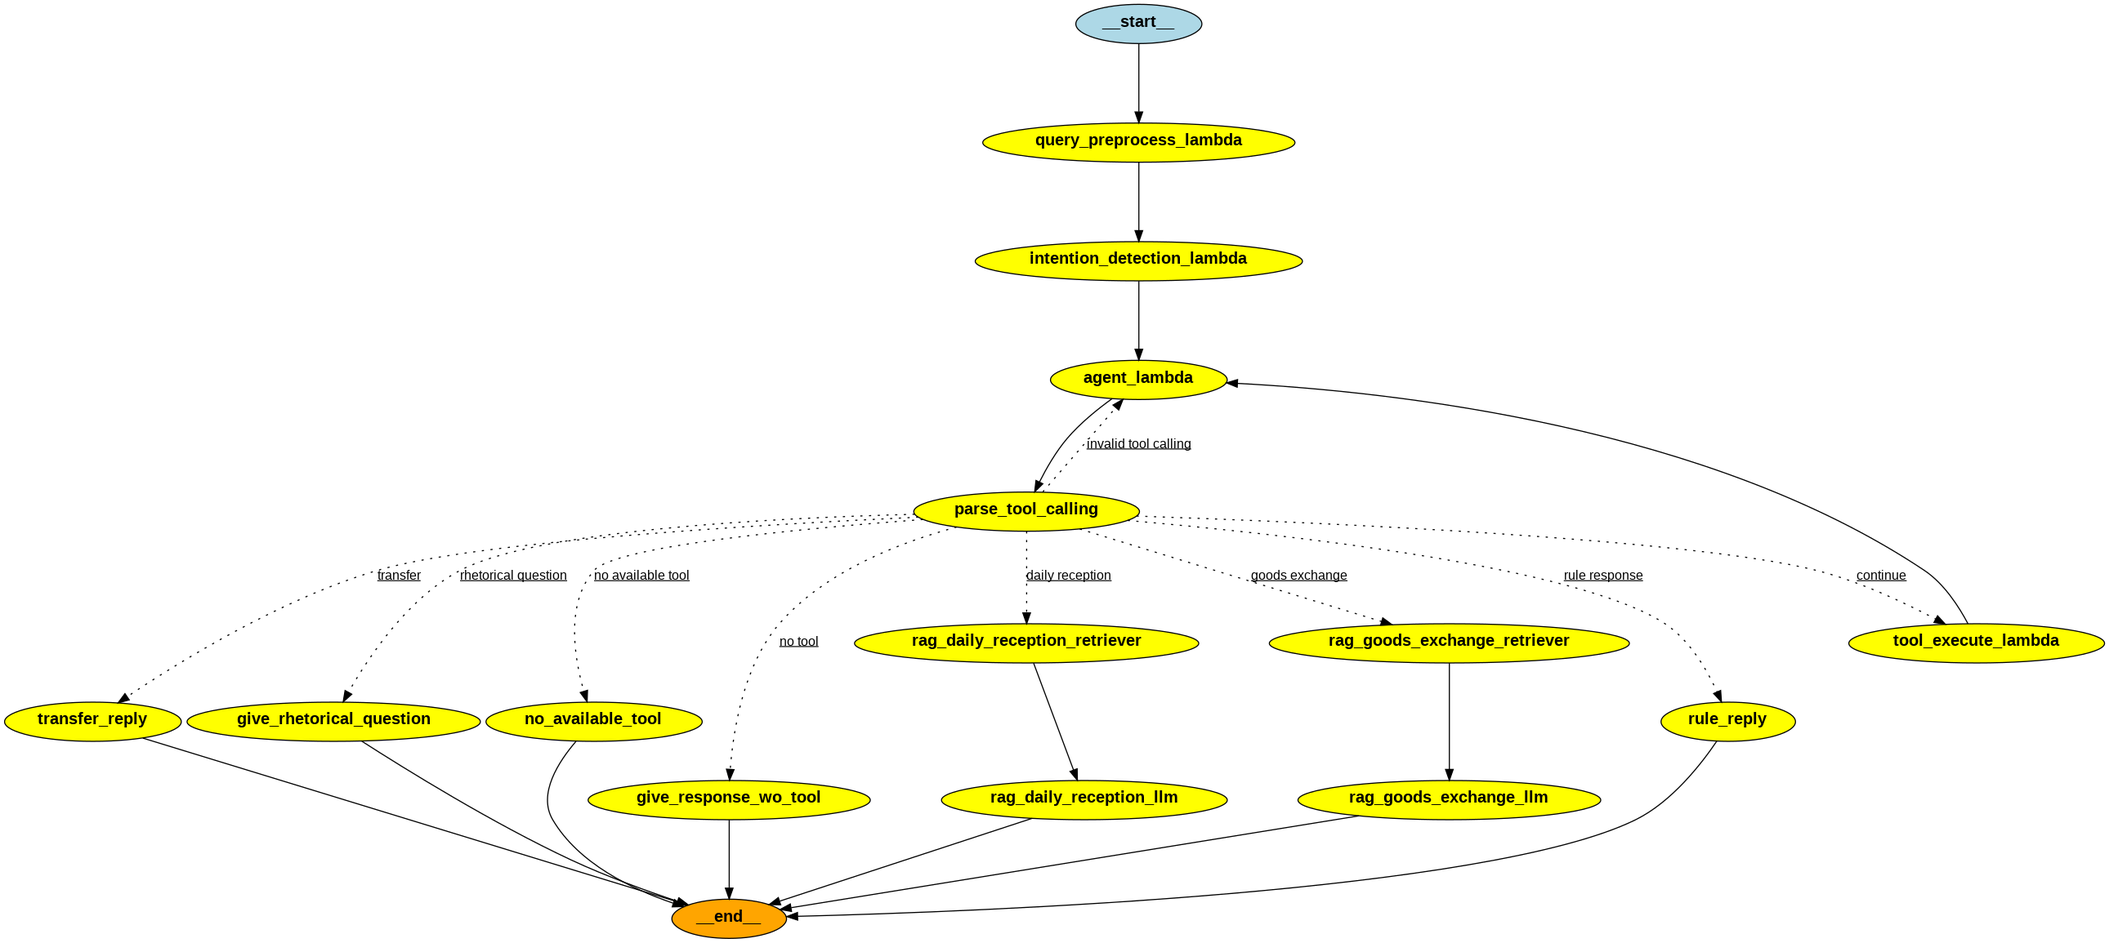
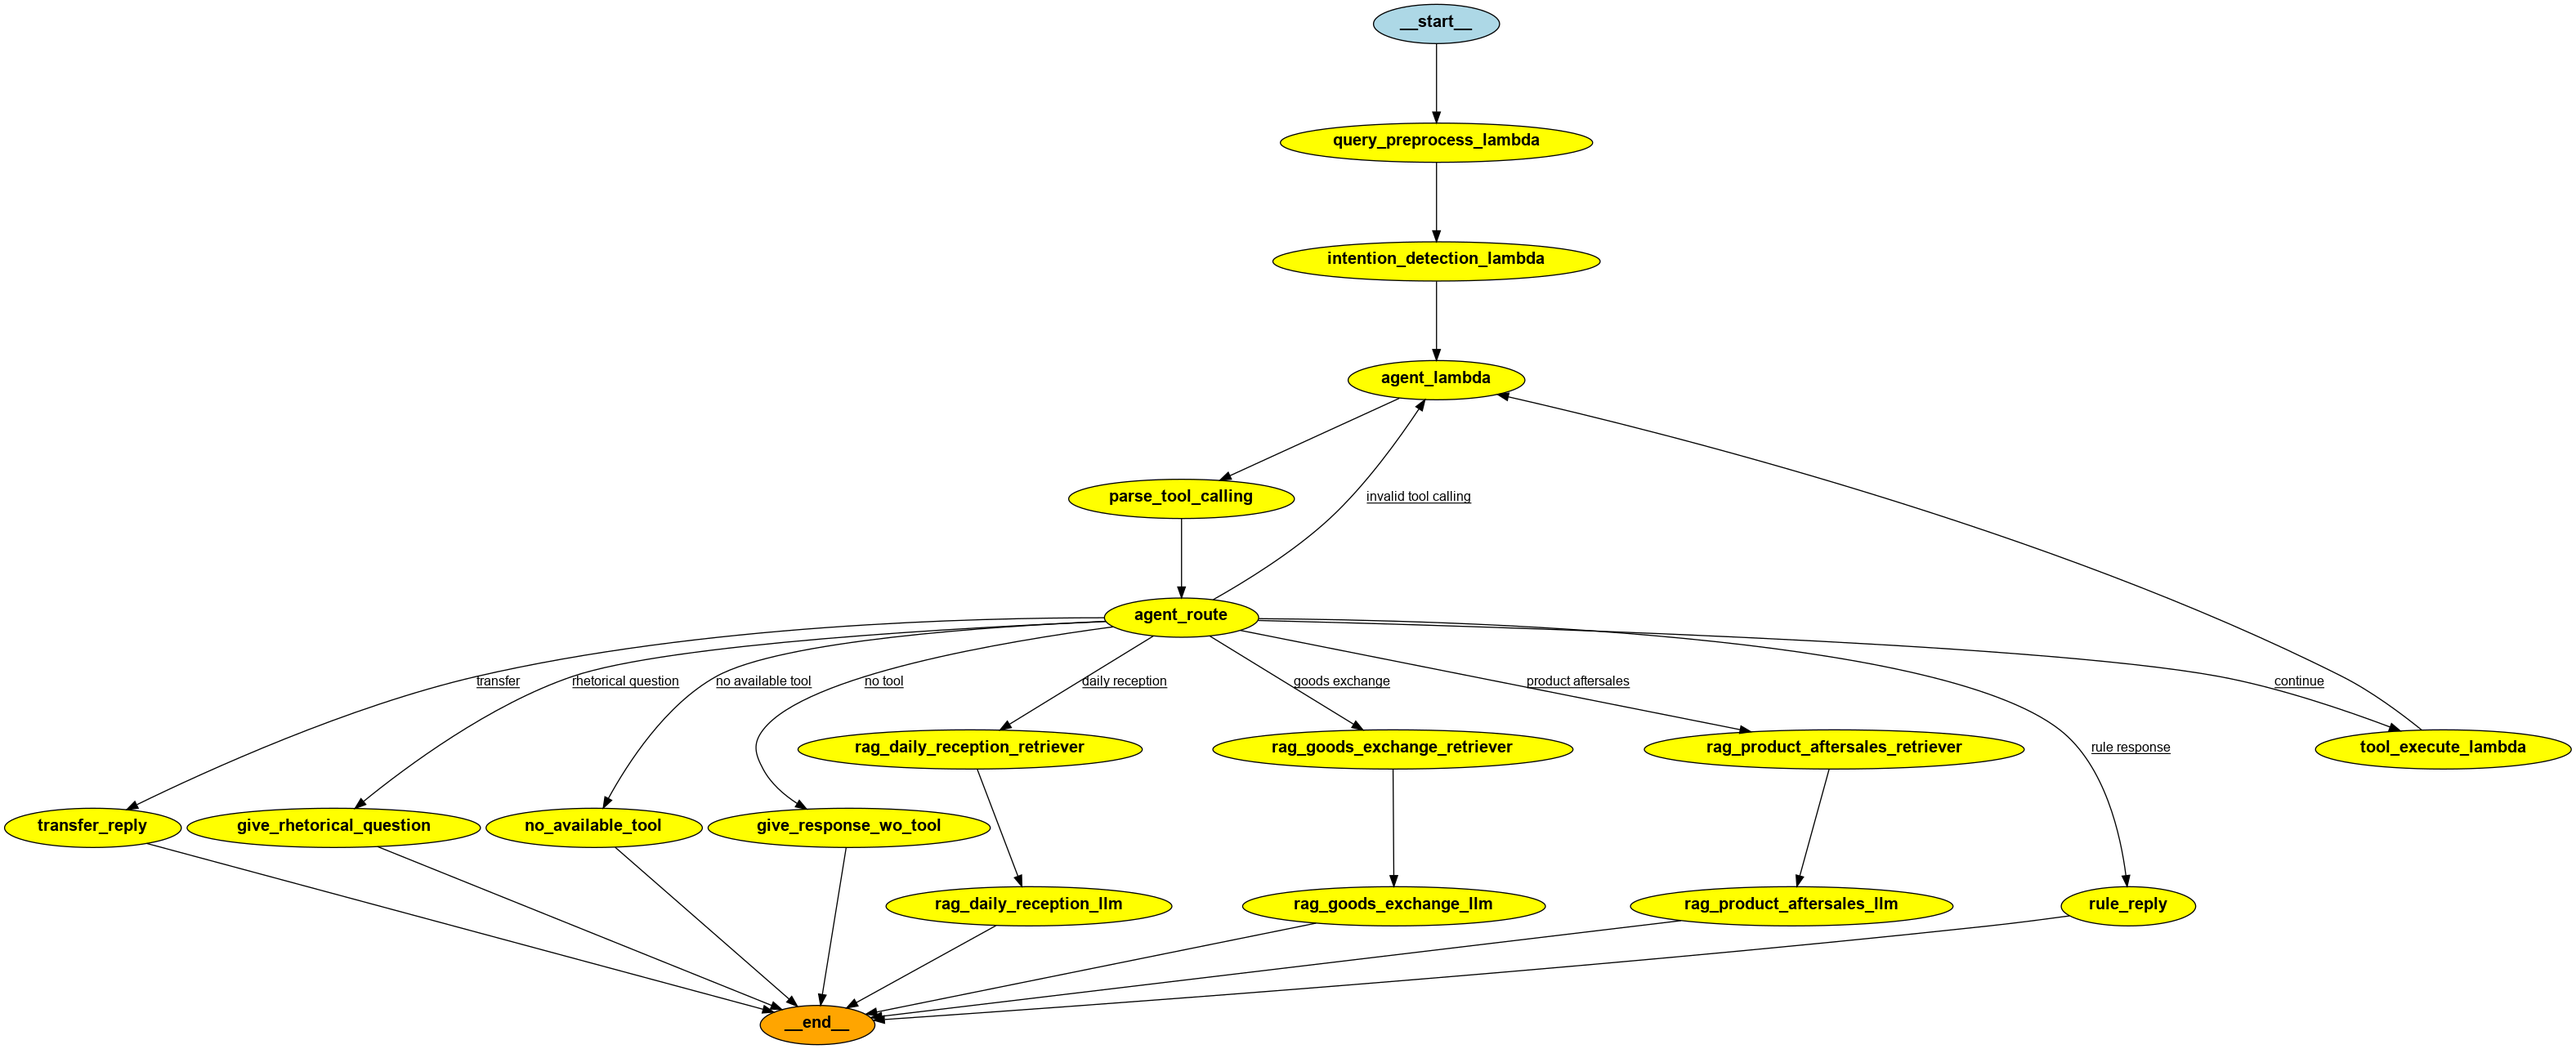
add product aftersales graph

diff --git a/source/lambda/online/lambda_main/main_utils/online_entries/retail_entry.py b/source/lambda/online/lambda_main/main_utils/online_entries/retail_entry.py
@@ -250,6 +250,34 @@ def rag_goods_exchange_llm_lambda(state:ChatbotState):
         )
     return {"answer": output}
 
+@node_monitor_wrapper
+def rag_product_aftersales_retriever_lambda(state: ChatbotState):
+    # call retrivever
+    retriever_params = state["chatbot_config"]["rag_product_aftersales_config"]
+    retriever_params["query"] = state["query"]
+    output:str = invoke_lambda(
+        event_body=retriever_params,
+        lambda_name="Online_Function_Retriever",
+        lambda_module_path="functions.lambda_retriever.retriever",
+        handler_name="lambda_handler"
+    )
+    contexts = [doc['page_content'] for doc in output['result']['docs']]
+    return {"contexts": contexts}
+
+
+@node_monitor_wrapper
+def rag_product_aftersales_llm_lambda(state:ChatbotState):
+    output:str = invoke_lambda(
+        lambda_name='Online_LLM_Generate',
+        lambda_module_path="lambda_llm_generate.llm_generate",
+        handler_name='lambda_handler',
+        event_body={
+            "llm_config": {**state['chatbot_config']['rag_product_aftersales_config']['llm_config'], "intent_type": LLMTaskType.RAG},
+            "llm_input": {"contexts": [state['contexts']], "query": state['query'], "chat_history": state['chat_history']}
+            }
+        )
+    return {"answer": output}
+
 # @node_monitor_wrapper
 # def rag_llm_lambda(state:ChatbotState):
 #     output:str = invoke_lambda(
@@ -365,6 +393,12 @@ def agent_route(state:dict):
     if recent_tool_call['name'] == 'no_available_tool':
         return "no available tool"
 
+    if recent_tool_call['name'] == 'product_logistics':
+        return "product aftersales"
+
+    if recent_tool_call['name'] == 'product_quality':
+        return "product aftersales"
+
     return "continue"
      
 #############################
@@ -388,6 +422,8 @@ def build_graph():
     workflow.add_node("rag_daily_reception_llm",rag_daily_reception_llm_lambda)
     workflow.add_node("rag_goods_exchange_retriever",rag_goods_exchange_retriever_lambda)
     workflow.add_node("rag_goods_exchange_llm",rag_goods_exchange_llm_lambda)
+    workflow.add_node("rag_product_aftersales_retriever",rag_product_aftersales_retriever_lambda)
+    workflow.add_node("rag_product_aftersales_llm",rag_product_aftersales_llm_lambda)
     workflow.add_node("rule_reply",rule_reply)
 
     
@@ -399,6 +435,7 @@ def build_graph():
     workflow.add_edge("agent_lambda",'parse_tool_calling')
     workflow.add_edge("rag_daily_reception_retriever","rag_daily_reception_llm")
     workflow.add_edge('rag_goods_exchange_retriever',"rag_goods_exchange_llm")
+    workflow.add_edge('rag_product_aftersales_retriever',"rag_product_aftersales_llm")
 
 
     # end
@@ -408,6 +445,7 @@ def build_graph():
     workflow.add_edge("give_response_wo_tool",END)
     workflow.add_edge("rag_daily_reception_llm",END)
     workflow.add_edge("rag_goods_exchange_llm",END)
+    workflow.add_edge("rag_product_aftersales_llm",END)
     workflow.add_edge('rule_reply',END)
 
     # temporal add edges for ending logic
@@ -425,6 +463,7 @@ def build_graph():
             "daily reception": "rag_daily_reception_retriever",
             "no available tool": "no_available_tool",
             "rule response": "rule_reply",
+            "product aftersales": "rag_product_aftersales_retriever",
             # "response": "give_tool_response",
             "continue":"tool_execute_lambda"
         }

diff --git a/source/lambda/online/functions/tools.py b/source/lambda/online/functions/tools.py
@@ -511,26 +511,3 @@ tool_manager.register_tool(
         }
     }
 )
-
-# tool_manager.register_tool({
-#     "name":"物流规则",
-#     "lambda_name": "xxxx",
-#     "lambda_module_path": "xxxx",
-#     "tool_def": {
-#         "name": "物流规则",
-#         "description": "物流规则"
-#     }
-# })
-
-# tool_manager.register_tool({
-#     "name":"商品质量问题",
-#     "lambda_name": "xxxx",
-#     "lambda_module_path": "xxxx",
-#     "tool_def": {
-#         "name": "商品质量问题",
-#         "description": "商品质量问题"
-#     }
-# })
-
-
-
